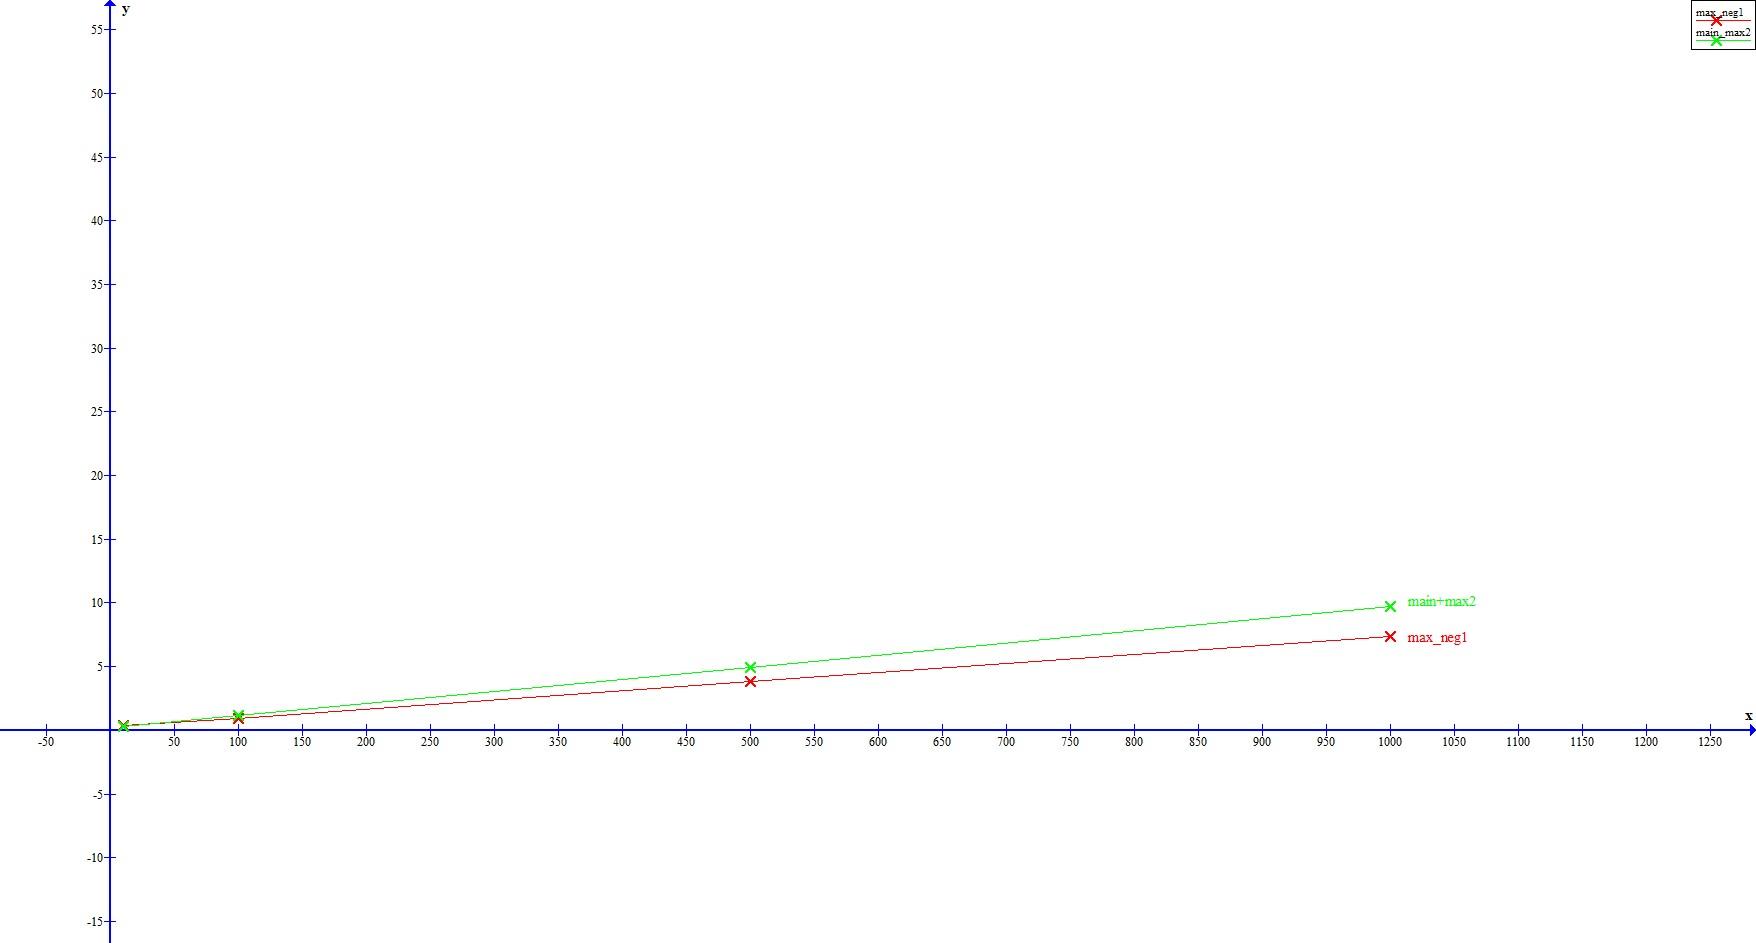
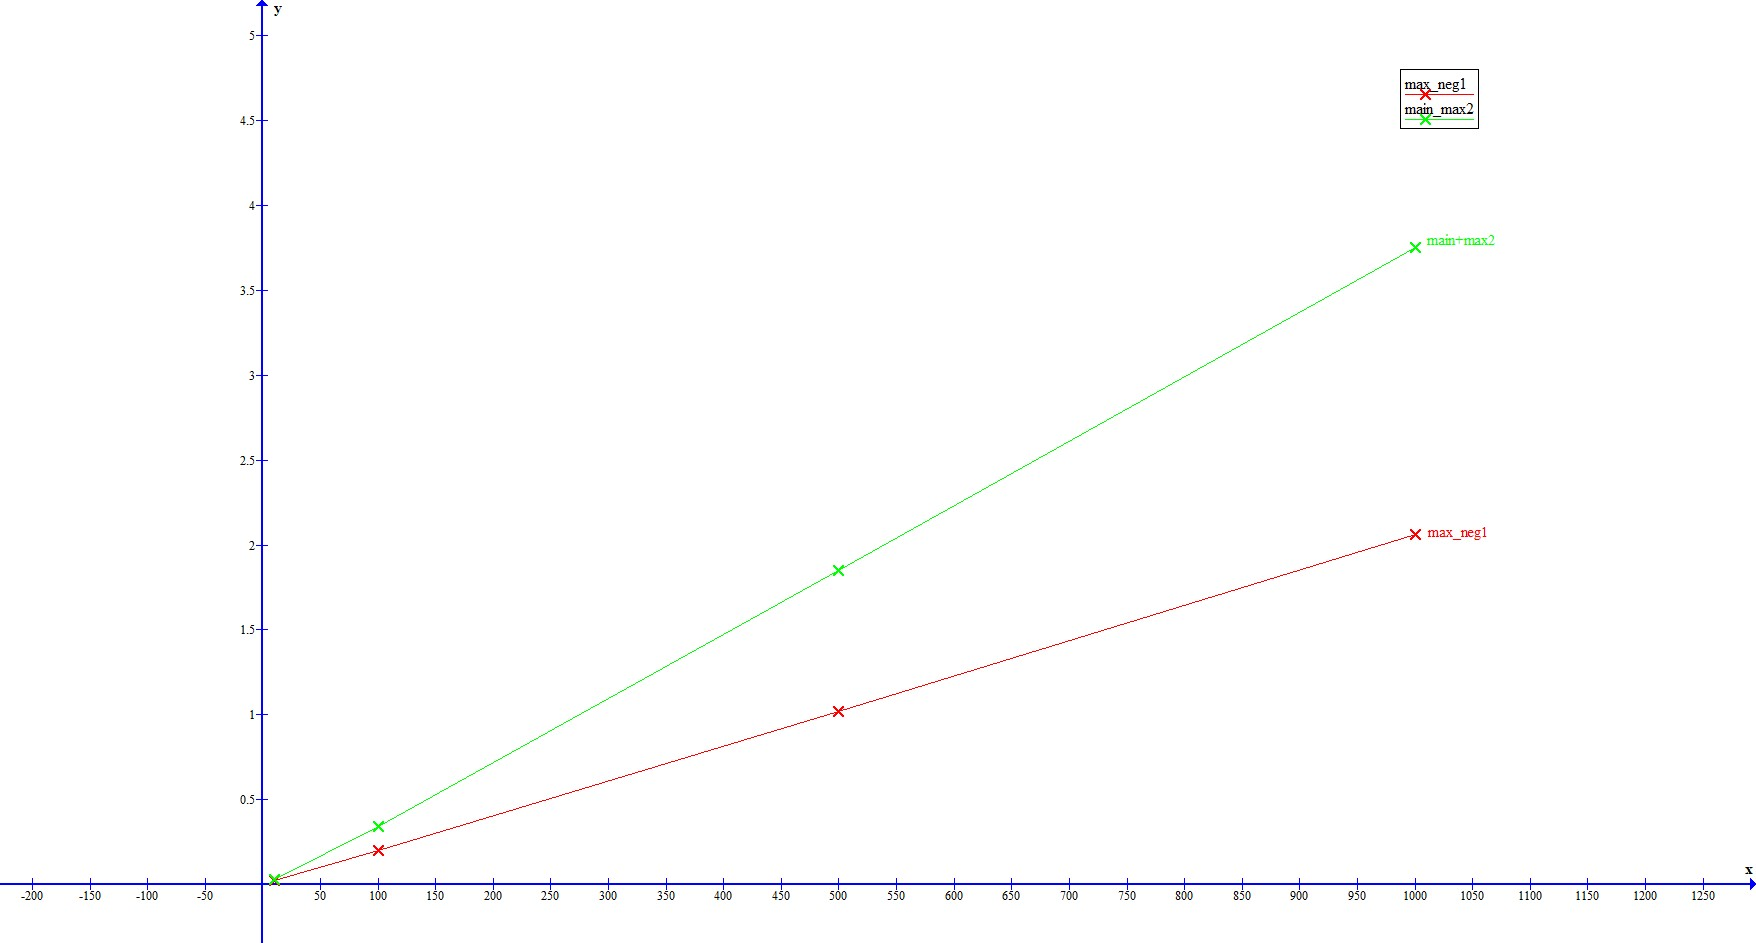
les4: 4.1 without prints

diff --git a/les4/les4_task1.py b/les4/les4_task1.py
@@ -25,44 +25,37 @@ def max_neg1(a_max_size):
     max_neg_elem = -inf
     max_neg_elem_i = -inf
 
-    print('Рандомный массив: ')
     a = [random.randint(-1000, 1000) for _ in range(0, a_max_size)]
-    for item in a:
-        print(f'{item:>5}',end ='')
-    print()
-    for item in range(0,a_max_size):
-        print(f'{item:>5}',end ='')
+
     for i,elem in enumerate(a):
         if elem < 0 and elem > max_neg_elem:
             max_neg_elem = elem
             max_neg_elem_i = i
     if max_neg_elem > -inf:
-        print()
-        print(f'Максимальный отрицательный элемент: {max_neg_elem}')
-        print(f'Индекс максимального отрицательно элемента: {max_neg_elem_i}')
+        return (max_neg_elem_i,max_neg_elem)
 
 #max_neg1(10)
-#1000 loops, best of 5: 355 usec per loop
+#1000 loops, best of 5: 21.7 usec per loop
 #max_neg1(100)
-#1000 loops, best of 5: 911 usec per loop
+#1000 loops, best of 5: 200 usec per loop
 #max_neg1(500)
-#1000 loops, best of 5: 3.84 msec per loop
+#1000 loops, best of 5: 1.02 msec per loop
 #max_neg1(1000)
-#1000 loops, best of 5: 7.37 msec per loop
+#1000 loops, best of 5: 2.06 msec per loop
 
 #ncalls  tottime  percall  cumtime  percall filename:lineno(function)
 #cProfile.run('max_neg1(10)')
-#80 function calls in 0.000 seconds
-# 1    0.000    0.000    0.000    0.000 les4_task1.py:22(max_neg1)
+#55 function calls in 0.000 seconds
+# 1    0.000    0.000    0.000    0.000 les4_task1.py:23(max_neg1)
 #cProfile.run('max_neg1(100)')
-#711 function calls in 0.001 seconds
-# 1    0.000    0.000    0.001    0.001 les4_task1.py:22(max_neg1)
+#505 function calls in 0.000 seconds
+# 1    0.000    0.000    0.000    0.000 les4_task1.py:23(max_neg1)
 #cProfile.run('max_neg1(500)')
-#3524 function calls in 0.007 seconds
-# 1    0.001    0.001    0.007    0.007 les4_task1.py:22(max_neg1)
+#2519 function calls in 0.002 seconds
+# 1    0.000    0.000    0.001    0.001 les4_task1.py:23(max_neg1)
 #cProfile.run('max_neg1(1000)')
-#7034 function calls in 0.014 seconds
-# 1    0.002    0.002    0.014    0.014 les4_task1.py:22(max_neg1)
+#5033 function calls in 0.004 seconds
+# 1    0.000    0.000    0.004    0.004 les4_task1.py:23(max_neg1)
 
 # Вычисление максимального элемента из всех отрицательных через один словарь без использования встроенных функций
 def max_neg2(a_max_size):
@@ -70,89 +63,75 @@ def max_neg2(a_max_size):
     max_neg_elem = -inf
     max_neg_elem_i = -inf
 
-    print('Рандомный массив: ')
     a = {i :random.randint(-1000, 1000) for i in range(0, a_max_size)}
-    for item in a.values():
-        print(f'{item:>5}',end ='')
-    print()
-    for item in range(0,a_max_size):
-        print(f'{item:>5}',end ='')
+
     for i,elem in a.items():
         if elem < 0 and elem > max_neg_elem:
             max_neg_elem = elem
             max_neg_elem_i = i
     if max_neg_elem > -inf:
-        print()
-        print(f'Максимальный отрицательный элемент: {max_neg_elem}')
-        print(f'Индекс максимального отрицательно элемента: {max_neg_elem_i}')
+        return (max_neg_elem_i, max_neg_elem)
 
 #max_neg2(10)
-#1000 loops, best of 5: 278 usec per loop
+#1000 loops, best of 5: 21.2 usec per loop
 #max_neg2(100)
-#1000 loops, best of 5: 923 usec per loop
+#1000 loops, best of 5: 199 usec per loop
 #max_neg1(500)
-#1000 loops, best of 5: 3.86 msec per loop
+#1000 loops, best of 5: 1.08 msec per loop
 #max_neg2(1000)
-#1000 loops, best of 5: 7.43 msec per loop
+#1000 loops, best of 5: 2.11 msec per loop
 
 #ncalls  tottime  percall  cumtime  percall filename:lineno(function)
 #cProfile.run('max_neg2(10)')
-#82 function calls in 0.000 seconds
-# 1    0.000    0.000    0.000    0.000 les4_task1.py:22(max_neg2)
+#56 function calls in 0.000 seconds
+# 1    0.000    0.000    0.000    0.000 les4_task1.py:61(max_neg2)
 #cProfile.run('max_neg2(100)')
-#715 function calls in 0.002 seconds
-# 1    0.000    0.000    0.002    0.002 les4_task1.py:66(max_neg2)
+#506 function calls in 0.001 seconds
+# 1    0.000    0.000    0.000    0.000 les4_task1.py:61(max_neg2)
 #cProfile.run('max_neg2(500)')
-#3522 function calls in 0.007 seconds
-# 1    0.001    0.001    0.007    0.007 les4_task1.py:66(max_neg2)
+#2521 function calls in 0.001 seconds
+# 1    0.000    0.000    0.001    0.001 les4_task1.py:61(max_neg2)
 #cProfile.run('max_neg2(1000)')
-#7049 function calls in 0.014 seconds
-# 1    0.002    0.002    0.014    0.014 les4_task1.py:66(max_neg2)
+#5036 function calls in 0.004 seconds
+# 1    0.000    0.000    0.004    0.004 les4_task1.py:61(max_neg2)
 
 # Вычисление максимального элемента из всех отрицательных через два списка с использованием встроенной функции max()
 def max_neg3(a_max_size):
-    print('Рандомный массив: ')
     a = [random.randint(-1000, 1000) for i in range(0, a_max_size)]
     b = [value for value in a if value < 0]
-    for item in a:
-        print(f'{item:>5}',end ='')
-    print()
-    for item in range(0,a_max_size):
-        print(f'{item:>5}',end ='')
+
     if len(b) > 0:
         max_neg_elem = max(b)
         for i,elem in enumerate(a):
             if elem == max_neg_elem:
                 max_neg_elem_i = i
         if a_max_size > 0:
-            print()
-            print(f'Максимальный отрицательный элемент: {max_neg_elem}')
-            print(f'Индекс максимального отрицательно элемента: {max_neg_elem_i}')
+            return (max_neg_elem_i, max_neg_elem)
     else:
-        print(f'Случайный массив не содержит отрицательных элементов!')
+        return None
 
 #max_neg3(10)
-#1000 loops, best of 5: 279 usec per loop
+#1000 loops, best of 5: 21.4 usec per loop
 #max_neg3(100)
-#1000 loops, best of 5: 922 usec per loop
+#1000 loops, best of 5: 204 usec per loop
 #max_neg3(500)
-#1000 loops, best of 5: 3.87 msec per loop
+#1000 loops, best of 5: 1.1 msec per loop
 #max_neg3(1000)
-#1000 loops, best of 5: 7.51 msec per loop
+#1000 loops, best of 5: 2.26 msec per loop
 
 #ncalls  tottime  percall  cumtime  percall filename:lineno(function)
 #cProfile.run('max_neg3(10)')
-#84 function calls in 0.000 seconds
-# 1    0.000    0.000    0.000    0.000 les4_task1.py:110(max_neg3)
+#59 function calls in 0.000 seconds
+# 1    0.000    0.000    0.000    0.000 les4_task1.py:99(max_neg3)
 #cProfile.run('max_neg3(100)')
-#714 function calls in 0.002 seconds
-# 1    0.000    0.000    0.002    0.002 les4_task1.py:110(max_neg3)
+#513 function calls in 0.000 seconds
+# 1    0.000    0.000    0.000    0.000 les4_task1.py:99(max_neg3)
 #cProfile.run('max_neg3(500)')
-#3529 function calls in 0.007 seconds
-# 1    0.001    0.001    0.007    0.007 les4_task1.py:110(max_neg3)
+#2518 function calls in 0.002 seconds
+# 1    0.000    0.000    0.002    0.002 les4_task1.py:99(max_neg3)
 #cProfile.run('max_neg3(1000)')
-#7036 function calls in 0.014 seconds
-# 1    0.002    0.002    0.014    0.014 les4_task1.py:110(max_neg3)
+#5025 function calls in 0.004 seconds
+# 1    0.000    0.000    0.004    0.004 les4_task1.py:99(max_neg3)
 
 # Вычисление максимального элемента из всех отрицательных через два списка с использованием рекурсивной функции
 def max2(L):
@@ -166,45 +145,38 @@ def max2(L):
     return max(a,b)
 
 def main(a_max_size):
-    print('Рандомный массив: ')
     a = [random.randint(-1000, 1000) for i in range(0, a_max_size)]
     b = [value for value in a if value < 0]
-    for item in a:
-        print(f'{item:>5}', end='')
-    print()
-    for item in range(0, a_max_size):
-        print(f'{item:>5}', end='')
+
     if len(b) > 0:
         max_neg_elem = max2(b)
         for i,elem in enumerate(a):
             if elem == max_neg_elem:
                 max_neg_elem_i = i
-        print()
-        print(f'Максимальный отрицательный элемент: {max_neg_elem}')
-        print(f'Индекс максимального отрицательно элемента: {max_neg_elem_i}')
+        return (max_neg_elem_i, max_neg_elem)
 
 #main(10)
-#1000 loops, best of 5: 303 usec per loop
+#1000 loops, best of 5: 31.4 usec per loop
 #main(100)
-#1000 loops, best of 5: 1.17 msec per loop
+#1000 loops, best of 5: 339 usec per loop
 #main(500)
-#1000 loops, best of 5: 4.97 msec per loop
+#1000 loops, best of 5: 1.85 msec per loop
 #main(1000)
-#1000 loops, best of 5: 9.75 msec per loop
+#1000 loops, best of 5: 3.75 msec per loop
 
 #ncalls  tottime  percall  cumtime  percall filename:lineno(function)
 #cProfile.run('main(10)')
-# 102 function calls (98 primitive calls) in 0.000 seconds
-# 5/1    0.000    0.000    0.000    0.000 les4_task1.py:157(max2)
+# 105 function calls (95 primitive calls) in 0.000 seconds
+# 11/1    0.000    0.000    0.000    0.000 les4_task1.py:137(max2)
 #cProfile.run('main(100)')
-#1186 function calls (1082 primitive calls) in 0.002 seconds
-# 105/1    0.000    0.000    0.000    0.000 les4_task1.py:157(max2)
+#1005 function calls (895 primitive calls) in 0.000 seconds
+# 111/1    0.000    0.000    0.000    0.000 les4_task1.py:137(max2)
 #cProfile.run('main(500)')
-#5646 function calls (5174 primitive calls) in 0.009 seconds
-# 473/1    0.001    0.000    0.001    0.001 les4_task1.py:157(max2)
+#4679 function calls (4199 primitive calls) in 0.003 seconds
+# 481/1    0.001    0.000    0.002    0.002 les4_task1.py:137(max2)
 #cProfile.run('main(1000)')
-#11511 function calls (10517 primitive calls) in 0.017 seconds
-# 995/1    0.002    0.000    0.003    0.003 les4_task1.py:157(max2)
+#9668 function calls (8638 primitive calls) in 0.007 seconds
+# 1031/1    0.002    0.000    0.003    0.003 les4_task1.py:137(max2)
 
 '''Можно сделать вывод, что функция работает одинаково через список и через словарь, такие же результаты
 функция показала при нахождении максимума через встроенную функцию. Рекурсивный вариант выполняется дольше.
